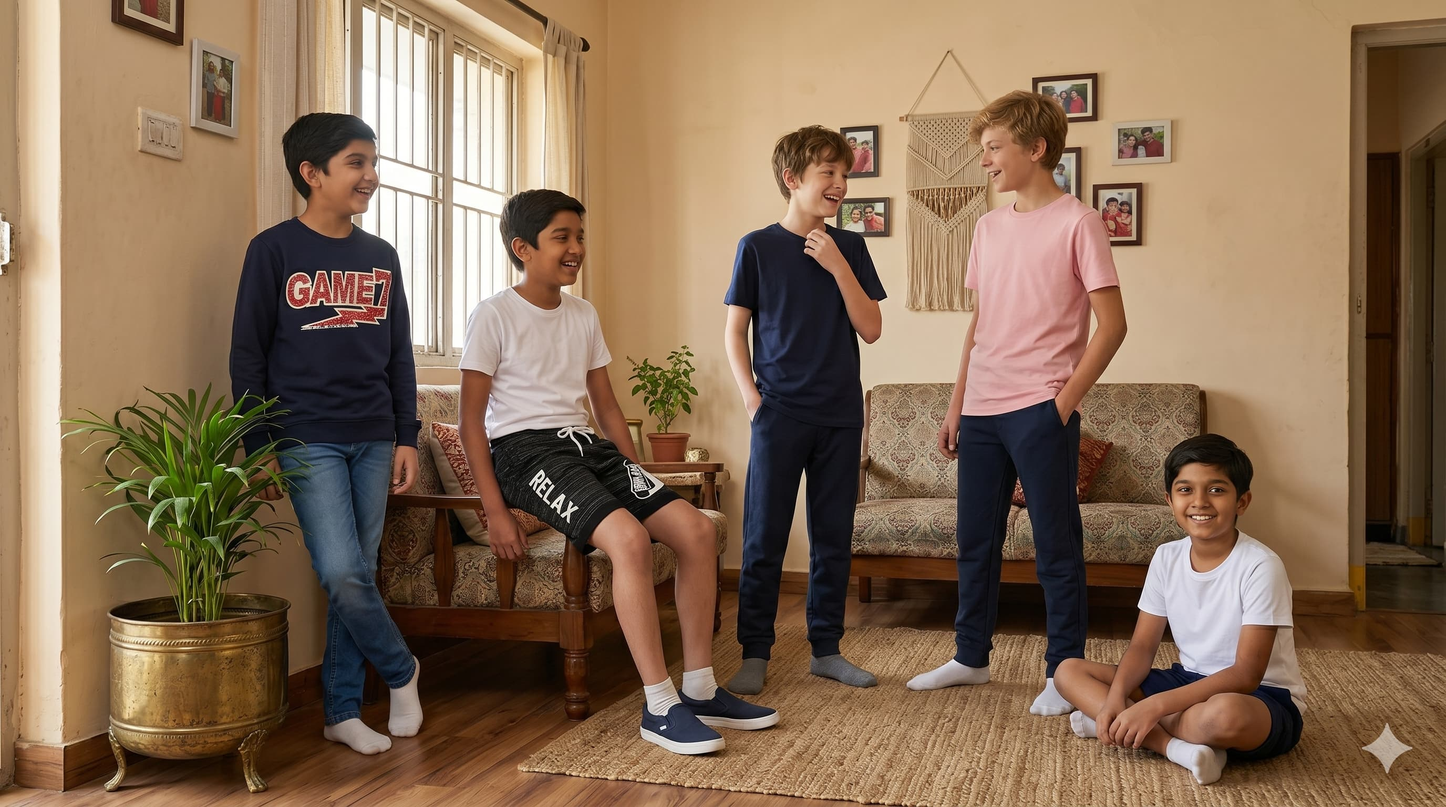
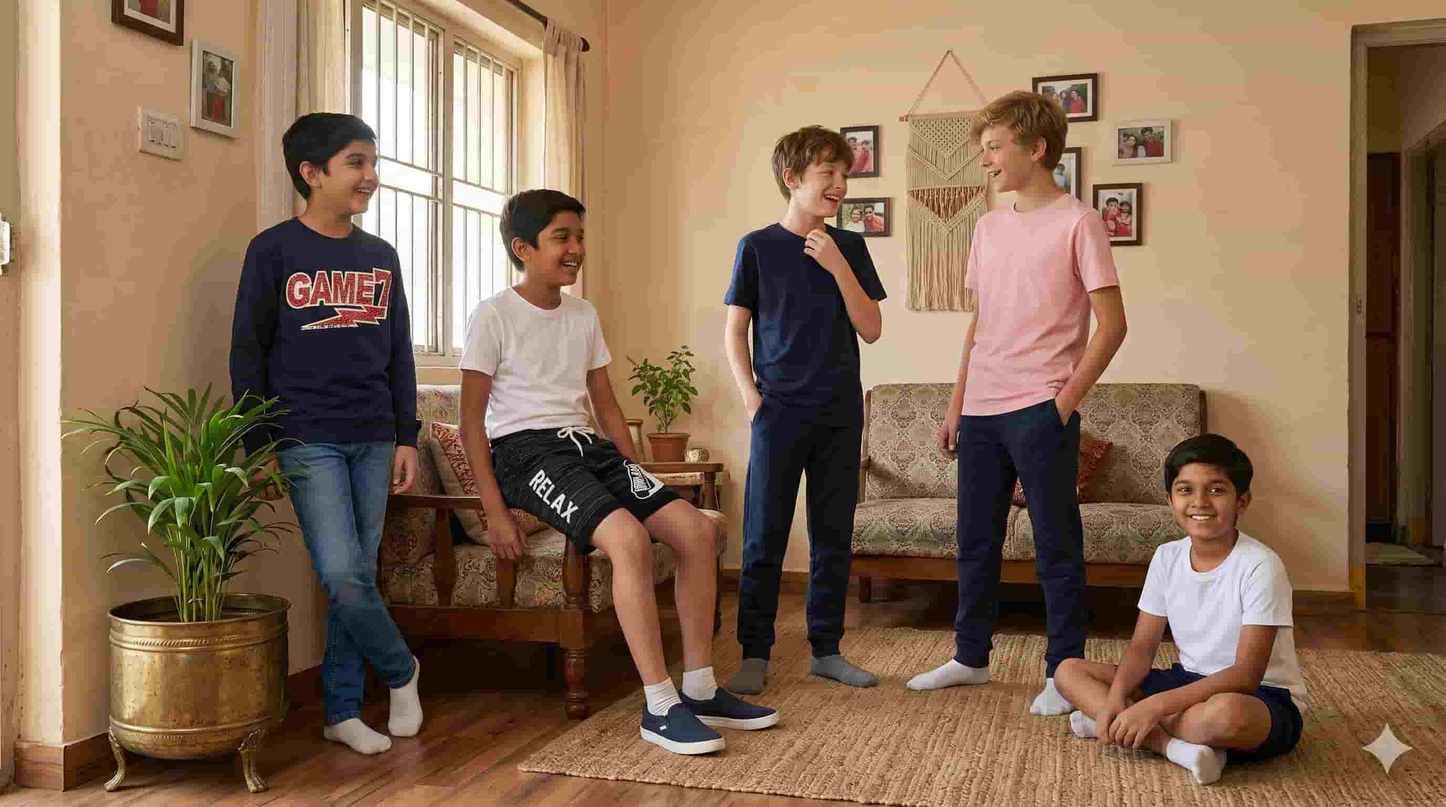
enhanced performance

diff --git a/app/shop/page.tsx b/app/shop/page.tsx
@@ -37,7 +37,8 @@ function ShopPage() {
     return shuffledAllProducts;
   };
 
-  const getCategories = () => {
+  const categories = useMemo(() => {
+    const getCategories = () => {
     const sourceProducts = getSourceProducts();
     const uniqueCategories = Array.from(new Set(sourceProducts.map(p => p.category)));
     
@@ -82,9 +83,12 @@ function ShopPage() {
       original: category,
       display: category
     }));
-  };
+    };
+    return getCategories();
+  }, [activeTab, shuffledAllProducts]);
 
-  const getFilteredProducts = () => {
+  const filteredProducts = useMemo(() => {
+    const getFilteredProducts = () => {
     const sourceProducts = getSourceProducts();
     if (activeCategory === 'all') {
       return sourceProducts;
@@ -107,7 +111,9 @@ function ShopPage() {
       if (filterByGender && product.gender !== filterByGender) return false;
       return true;
     });
-  };
+    };
+    return getFilteredProducts();
+  }, [activeTab, activeCategory, shuffledAllProducts]);
 
   return (
     <div className="min-h-screen bg-light dark:bg-dark text-light dark:text-dark">
@@ -115,32 +121,23 @@ function ShopPage() {
 
       <div className="flex pt-20">
         {/* Left Sidebar */}
-        <motion.aside
-          className="hidden md:block w-64 bg-light-secondary dark:bg-dark-secondary border-r border-light dark:border-dark px-6 py-8 fixed h-screen overflow-y-auto"
-          initial={{ opacity: 0, x: -50 }}
-          animate={{ opacity: 1, x: 0 }}
-          transition={{ duration: 0.5 }}
-        >
+        <aside className="hidden md:block w-64 bg-light-secondary dark:bg-dark-secondary border-r border-light dark:border-dark px-6 py-8 fixed h-screen overflow-y-auto">
           <div className="space-y-4">
             {/* All Button */}
-            <motion.button
+            <button
               onClick={() => setActiveCategory('all')}
               className={`block text-sm font-medium py-2 cursor-pointer transition-colors ${
                 activeCategory === 'all'
                   ? 'text-warm-accent'
                   : 'text-gray-900 dark:text-white hover:text-warm-accent dark:hover:text-warm-accent'
               }`}
-              initial={{ opacity: 0, x: -20 }}
-              animate={{ opacity: 1, x: 0 }}
-              transition={{ delay: 0 }}
-              whileHover={{ paddingLeft: '0.5rem' }}
             >
               All
-            </motion.button>
+            </button>
 
             {/* Category List */}
-            {getCategories().map((categoryItem, index) => (
-              <motion.button
+            {categories.map((categoryItem, index) => (
+              <button
                 key={categoryItem.original}
                 onClick={() => setActiveCategory(categoryItem.original)}
                 className={`block text-sm font-medium py-2 cursor-pointer transition-colors text-left w-full ${
@@ -148,26 +145,17 @@ function ShopPage() {
                     ? 'text-warm-accent'
                     : 'text-gray-900 dark:text-white hover:text-warm-accent dark:hover:text-warm-accent'
                 }`}
-                initial={{ opacity: 0, x: -20 }}
-                animate={{ opacity: 1, x: 0 }}
-                transition={{ delay: (index + 1) * 0.03 }}
-                whileHover={{ paddingLeft: '0.5rem' }}
               >
                 {categoryItem.display}
-              </motion.button>
+              </button>
             ))}
           </div>
-        </motion.aside>
+        </aside>
 
         {/* Main Content */}
         <main className="ml-0 md:ml-64 flex-1 px-4 py-4 md:px-8 md:py-8">
           {/* Top Controls */}
-          <motion.div
-            className="flex items-center justify-between mb-8 bg-transparent"
-            initial={{ opacity: 0, y: -20 }}
-            animate={{ opacity: 1, y: 0 }}
-            transition={{ duration: 0.5 }}
-          >
+          <div className="flex items-center justify-between mb-8 bg-transparent">
             {/* Tab Toggle */}
             <div className="flex gap-4 md:gap-6 bg-transparent" style={{ backgroundColor: 'transparent' }}>
               {['ALL', 'BOYS', 'GIRLS'].map((tab) => (
@@ -183,49 +171,43 @@ function ShopPage() {
                       : 'text-gray-600 dark:text-gray-300 hover:text-gray-900 dark:hover:text-white'
                   }`}
                   style={{ backgroundColor: 'transparent' }}
-                  whileHover={{ scale: 1.05 }}
-                  whileTap={{ scale: 0.95 }}
                 >
                   {tab}
                 </motion.button>
               ))}
             </div>
 
-          </motion.div>
+          </div>
 
           {/* Mobile Category Dropdown */}
-          <motion.div
-            className="block md:hidden mb-6"
-            initial={{ opacity: 0, y: -10 }}
-            animate={{ opacity: 1, y: 0 }}
-            transition={{ duration: 0.3 }}
-          >
+          <div className="block md:hidden mb-6">
+            <label htmlFor="category-filter" className="sr-only">Filter</label>
             <select
+              id="category-filter"
               value={activeCategory}
               onChange={(e) => setActiveCategory(e.target.value)}
               className="w-full bg-transparent border border-warm-accent text-sm text-gray-900 dark:text-white px-4 py-2 rounded focus:outline-none focus:ring-2 focus:ring-warm-accent"
             >
               <option value="all">All Products</option>
-              {getCategories().map((categoryItem) => (
+              {categories.map((categoryItem) => (
                 <option key={categoryItem.original} value={categoryItem.original}>
                   {categoryItem.display}
                 </option>
               ))}
             </select>
-          </motion.div>
+          </div>
 
           {/* Product Grid */}
           <motion.div
             className="grid grid-cols-2 md:grid-cols-3 gap-4 md:gap-6"
-            variants={containerVariants}
-            initial="hidden"
-            animate="visible"
+            initial={{ opacity: 0 }}
+            animate={{ opacity: 1 }}
+            transition={{ duration: 0.3 }}
           >
-            {getFilteredProducts().map((product, index) => (
+            {filteredProducts.map((product, index) => (
               <motion.div
                 key={product.id}
                 className="group relative"
-                variants={itemVariants}
                 onMouseEnter={() => setHoveredIndex(index)}
                 onMouseLeave={() => setHoveredIndex(null)}
               >
@@ -239,6 +221,7 @@ function ShopPage() {
                       fill
                       className="w-full h-full object-cover"
                       sizes="(max-width: 1024px) 33vw, 25vw"
+                      priority={index === 0}
                     />
                   </div>
 
@@ -250,15 +233,11 @@ function ShopPage() {
                 </div>
 
                 {/* Product Info */}
-                <motion.div
-                  initial={{ opacity: 0, y: 10 }}
-                  animate={{ opacity: 1, y: 0 }}
-                  transition={{ delay: 0.1 + index * 0.02 }}
-                >
+                <div>
                   <h3 className="text-sm font-semibold text-gray-900 dark:text-white truncate">
                     {product.name}
                   </h3>
-                </motion.div>
+                </div>
               </motion.div>
             ))}
           </motion.div>

diff --git a/app/[category]/layout.tsx b/app/[category]/layout.tsx
@@ -1,0 +1,50 @@
+import type { Metadata } from 'next';
+import { CATEGORIES } from '@/lib/constants';
+
+export async function generateMetadata({
+  params,
+}: {
+  params: Promise<{ category: string }>;
+}): Promise<Metadata> {
+  const { category } = await params;
+  const categorySlug = category.toLowerCase();
+  const categoryData = CATEGORIES.find(cat => cat.slug === categorySlug);
+  const categoryName = categoryData?.name || categorySlug.toUpperCase();
+
+  if (categorySlug === 'boys') {
+    return {
+      title: 'Boys Collection | CLOTHTHEORY',
+      description: 'Premium boys apparel — hoodies, joggers, polos and more.',
+      openGraph: {
+        title: 'Boys Collection | CLOTHTHEORY',
+        description: 'Premium boys apparel — hoodies, joggers, polos and more.',
+        type: 'website',
+      },
+    };
+  }
+
+  if (categorySlug === 'girls') {
+    return {
+      title: 'Girls Collection | CLOTHTHEORY',
+      description: 'Premium girls apparel — sets, hoodies, joggers and more.',
+      openGraph: {
+        title: 'Girls Collection | CLOTHTHEORY',
+        description: 'Premium girls apparel — sets, hoodies, joggers and more.',
+        type: 'website',
+      },
+    };
+  }
+
+  return {
+    title: `${categoryName} | CLOTHTHEORY`,
+    description: `${categoryName} collection`,
+  };
+}
+
+export default function CategoryLayout({
+  children,
+}: {
+  children: React.ReactNode;
+}) {
+  return children;
+}

diff --git a/app/layout.tsx b/app/layout.tsx
@@ -3,8 +3,13 @@ import { ThemeProvider } from '@/contexts/ThemeContext';
 import './globals.css';
 
 export const metadata: Metadata = {
-  title: 'ClothTheory | Editorial Fashion',
-  description: 'ClothTheory - A modern fashion landing page',
+  title: 'CLOTHTHEORY',
+  description: 'Premium kids apparel. Bold cuts and uncompromising quality.',
+  openGraph: {
+    title: 'CLOTHTHEORY',
+    description: 'Premium kids apparel. Bold cuts and uncompromising quality.',
+    type: 'website',
+  },
 };
 
 export default function RootLayout({

diff --git a/app/shop/layout.tsx b/app/shop/layout.tsx
@@ -1,0 +1,19 @@
+import type { Metadata } from 'next';
+
+export const metadata: Metadata = {
+  title: 'Shop | CLOTHTHEORY',
+  description: 'Browse our boys and girls collections.',
+  openGraph: {
+    title: 'Shop | CLOTHTHEORY',
+    description: 'Browse our boys and girls collections.',
+    type: 'website',
+  },
+};
+
+export default function ShopLayout({
+  children,
+}: {
+  children: React.ReactNode;
+}) {
+  return children;
+}
